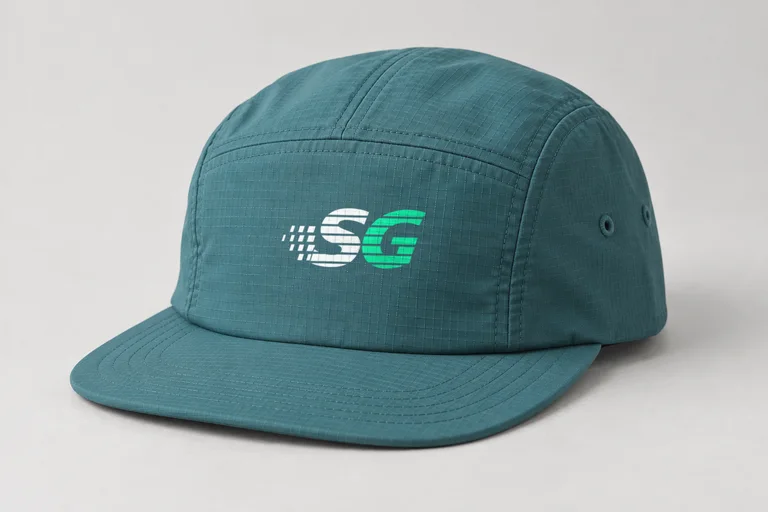
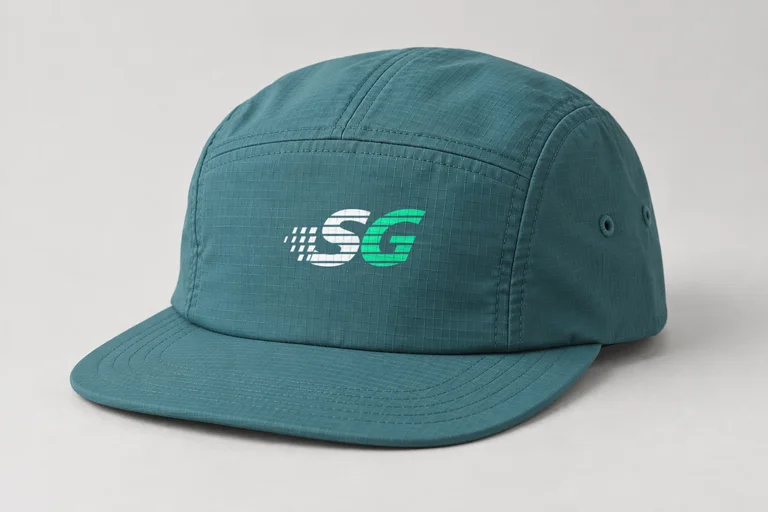
Sport Guardian: cap mark level with the ripstop grid, sheared to its vertical lines instead of rotated

Changed region(s): [[0.375, 0.4062, 0.5625, 0.5312]]

diff --git a/tools/sport-guardian/print_photo.py b/tools/sport-guardian/print_photo.py
@@ -57,10 +57,11 @@ def rot(im, a): return im.rotate(a, expand=True, resample=Image.BICUBIC)
 
 def cap():
     base = Image.open(os.path.join(P, 'cap-base.png'))
-    # the mark alone, centred in the stitched front panel and level with it (2026-10-13, her request): the panel runs
-    # from the left seam (x 400) to the right seam (x 1015) and from the top seam to the brim; the cap is turned a
-    # little, so the print follows the ripstop grid, about 1.5 degrees down to the right
-    art = rot(mark(), -1.5)
+    # the mark alone, centred in the stitched front panel (her request). Measured on the ripstop grid of the
+    # front panel: its horizontal lines are level (0 degrees) and its vertical lines lean about 6 degrees, the cap
+    # being turned a little. So the print is not rotated; it is sheared to follow the vertical lines.
+    m = mark(); k = 0.105  # tan 6 degrees
+    art = m.transform((m.width+int(k*m.height), m.height), Image.AFFINE, (1, k, -k*m.height, 0, 1, 0), resample=Image.BICUBIC)
     stamp(base, art, 707, 476, 290, strength=.95, blur=.5).save(os.path.join(P, 'cap.png'))
 
 def decks():
